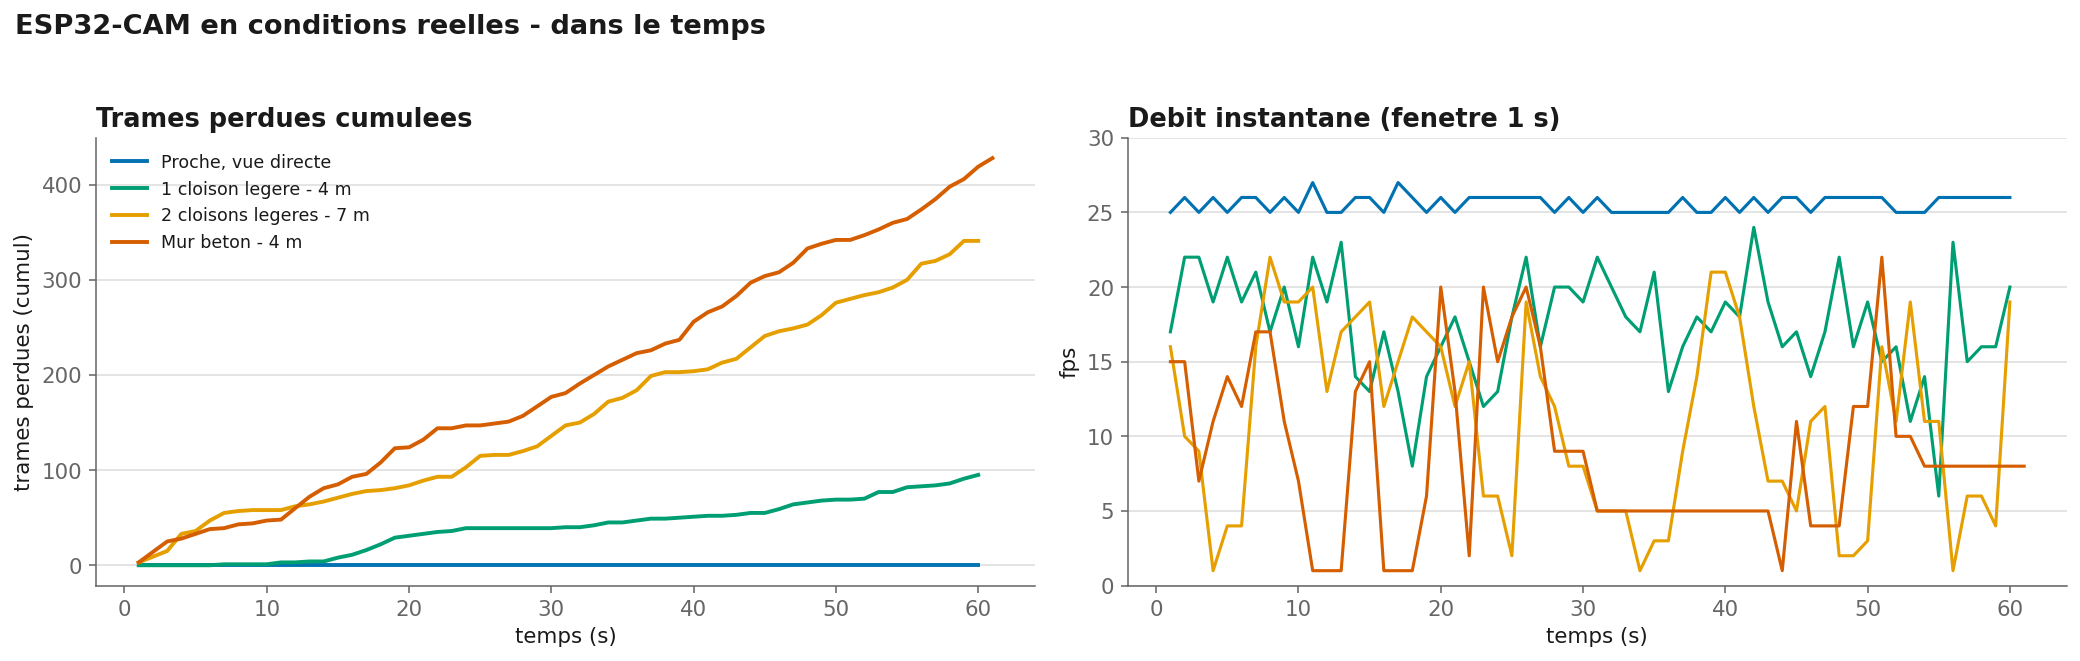
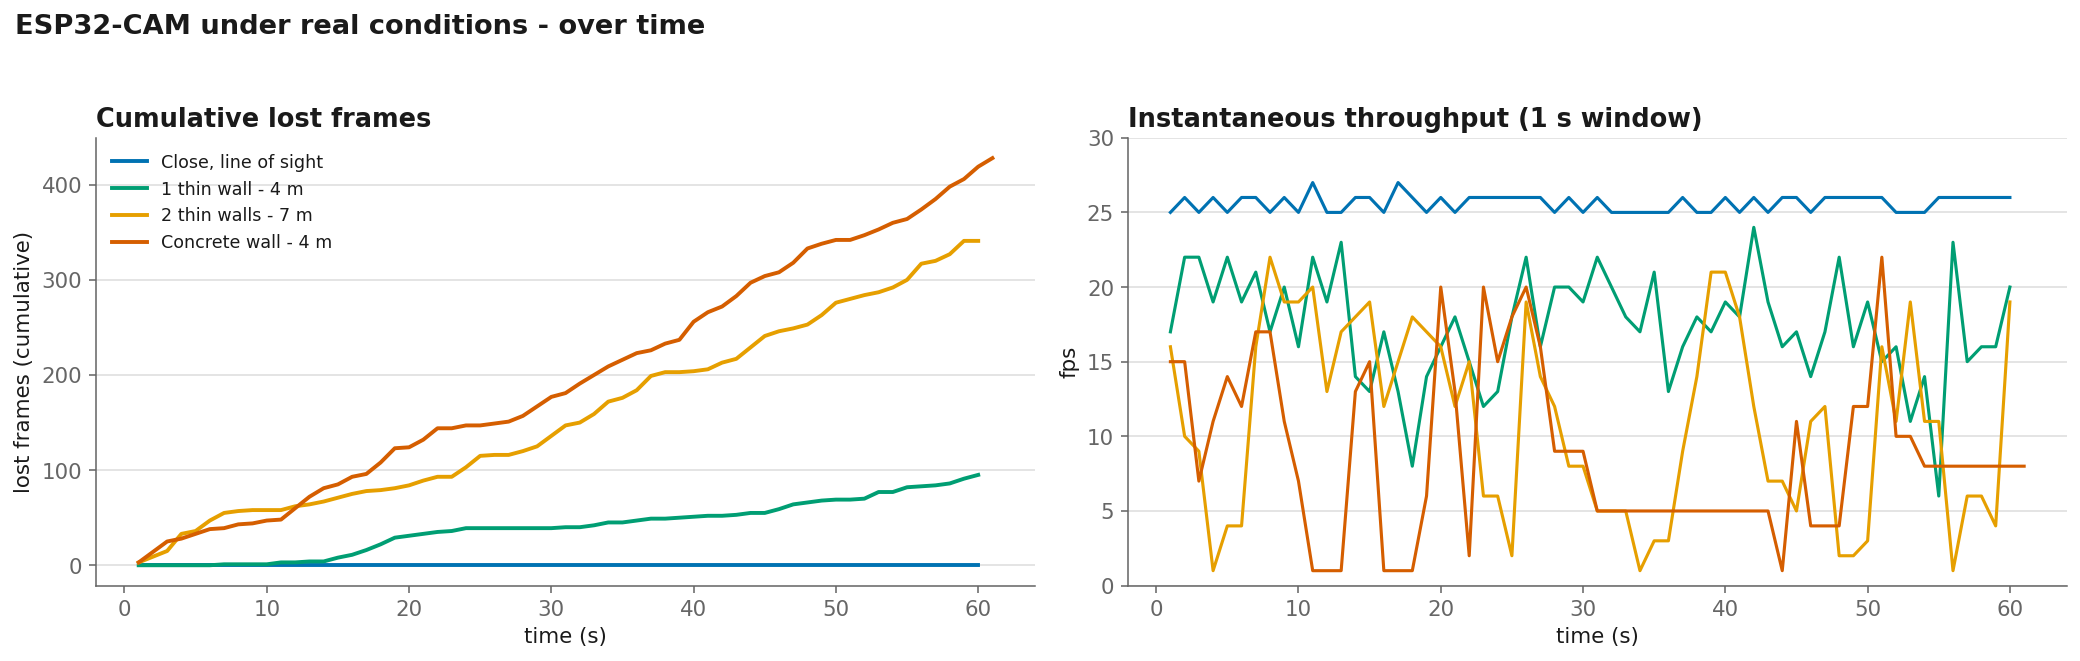
docs: English charts in README/reports (bench dashboards + real-conditions)

diff --git a/bench/comparison_fanout.html b/bench/comparison_fanout.html
@@ -1,5 +1,5 @@
 <!doctype html>
-<html lang="fr">
+<html lang="en">
 <head>
 <meta charset="utf-8">
 <meta name="viewport" content="width=device-width, initial-scale=1">
@@ -55,20 +55,20 @@
 </head>
 <body>
 <div class="wrap">
-  <h1>Banc multi-flux : async multiplexé vs thread-par-socket</h1>
-  <p class="sub">N flux UDP concurrents, 60 fps/flux (trames 8000 o), récepteur épinglé sur un cœur, 10 passes. <b>asio_mux</b> = N sockets sur 1 thread (io_context) ; <b>baseline_mt</b> = 1 thread bloquant par socket. Trait = médiane, bande = min–max.</p>
+  <h1>Multi-stream bench: multiplexed async vs thread-per-socket</h1>
+  <p class="sub">N concurrent UDP streams, 60 fps/stream (8000-byte frames), receiver pinned to one core, 10 passes. <b>asio_mux</b> = N sockets on 1 thread (io_context); <b>baseline_mt</b> = 1 blocking thread per socket. Line = median, band = min-max.</p>
   <div class="legend">
     <span><i class="sw" style="background:var(--base)"></i>baseline_mt (thread / socket)</span>
     <span><i class="sw" style="background:var(--asio)"></i>asio_mux (1 thread, N sockets)</span>
-    <span><i class="sw" style="background:var(--muted);height:0;border-top:2px dashed var(--muted);width:22px"></i>idéal</span>
+    <span><i class="sw" style="background:var(--muted);height:0;border-top:2px dashed var(--muted);width:22px"></i>ideal</span>
   </div>
 
-  <div class="panel"><h2>Perte (%)</h2><p class="cap">La métrique clé : à partir de N=64, l'async mono-thread sature son cœur et lâche des paquets ; le thread-par-socket reste à zéro.</p><div id="p_loss"></div></div>
-  <div class="panel"><h2>Frames livrées (% de l'offert)</h2><p class="cap">100 % = tout reçu. En dessous : soit le générateur n'a pas suivi (les deux), soit le récepteur a perdu (asio en plus).</p><div id="p_dpct"></div></div>
-  <div class="panel"><h2>Coût CPU (ms)</h2><p class="cap">Quasi identiques jusqu'à N=32. Au-delà, l'asio_mux consomme moins… parce qu'il traite moins (il jette 15 % du travail).</p><div id="p_cpu"></div></div>
+  <div class="panel"><h2>Loss (%)</h2><p class="cap">The key metric: from N=64 on, the single-thread async saturates its core and drops packets; thread-per-socket stays at zero.</p><div id="p_loss"></div></div>
+  <div class="panel"><h2>Frames delivered (% of offered)</h2><p class="cap">100% = everything received. Below: either the generator could not keep up (both), or the receiver lost frames (asio only).</p><div id="p_dpct"></div></div>
+  <div class="panel"><h2>CPU cost (ms)</h2><p class="cap">Nearly identical up to N=32. Beyond that, asio_mux uses less... because it does less (it drops 15% of the work).</p><div id="p_cpu"></div></div>
 
   <div class="callout" id="verdict"></div>
-  <details><summary>Voir les valeurs (médianes sur 10 passes)</summary><div id="tbl"></div></details>
+  <details><summary>Show the values (medians over 10 passes)</summary><div id="tbl"></div></details>
 </div>
 <div class="tipbox" id="tip"></div>
 
@@ -96,7 +96,7 @@ function panel(elId, metric, opts){
     const t=mk('text',{class:'tick',x:m.l-8,y:yy+4,'text-anchor':'end'}); t.textContent=opts.fmt(v); svg.appendChild(t);}
   const ax=mk('g',{class:'axis'}); ax.appendChild(mk('line',{x1:m.l,x2:m.l+iw,y1:m.t+ih,y2:m.t+ih})); svg.appendChild(ax);
   for(let i=0;i<N;i++){const t=mk('text',{class:'tick',x:x(i),y:m.t+ih+16,'text-anchor':'middle'}); t.textContent=NN[i]; svg.appendChild(t);}
-  const xl=mk('text',{class:'lbl',x:m.l+iw/2,y:H-4,'text-anchor':'middle'}); xl.textContent='N (nombre de flux)'; svg.appendChild(xl);
+  const xl=mk('text',{class:'lbl',x:m.l+iw/2,y:H-4,'text-anchor':'middle'}); xl.textContent='N (number of streams)'; svg.appendChild(xl);
   if(opts.ideal!==undefined){const yy=y(opts.ideal); svg.appendChild(mk('line',{class:'ideal',x1:m.l,x2:m.l+iw,y1:yy,y2:yy}));}
   for(const k of ['baseline_mt','asio_mux']){
     const arr=DATA[k][metric];
@@ -114,7 +114,7 @@ function panel(elId, metric, opts){
     let bi=0,bd=1e9; for(let i=0;i<N;i++){const d=Math.abs(x(i)-sx);if(d<bd){bd=d;bi=i;}}
     ch.setAttribute('x1',x(bi));ch.setAttribute('x2',x(bi));ch.style.opacity=1;
     const b=DATA.baseline_mt[metric][bi][0], a=DATA.asio_mux[metric][bi][0];
-    tip.innerHTML=`<div style="color:var(--text2)">N = ${NN[bi]} flux</div><div><span style="color:var(--base)">■</span> baseline_mt : ${opts.fmt(b)}</div><div><span style="color:var(--asio)">■</span> asio_mux : ${opts.fmt(a)}</div>`;
+    tip.innerHTML=`<div style="color:var(--text2)">N = ${NN[bi]} streams</div><div><span style="color:var(--base)">■</span> baseline_mt : ${opts.fmt(b)}</div><div><span style="color:var(--asio)">■</span> asio_mux : ${opts.fmt(a)}</div>`;
     tip.style.opacity=1; tip.style.left=(ev.clientX+14)+'px'; tip.style.top=(ev.clientY+12)+'px';
   });
   hit.addEventListener('pointerleave',()=>{ch.style.opacity=0;tip.style.opacity=0;});
@@ -125,10 +125,10 @@ panel('p_dpct','dpct',{fmt:v=>Math.round(v)+'%',ideal:100,idealTop:100});
 panel('p_cpu','cpu',{zero:true,fmt:v=>Math.round(v)});
 
 document.getElementById('verdict').innerHTML=
- "<b>Le résultat, à l'envers de l'intuition :</b> ici c'est le <b>thread-par-socket</b> qui passe l'échelle — perte nulle jusqu'à 128 flux — tandis que l'<b>async mono-thread décroche à N=64</b> (3,6 %) et s'effondre à N=128 (15,5 % de perte). La raison est structurelle : <b>un seul thread = un seul cœur</b>. Le plafond de l'asio_mux, c'est le débit paquets d'<i>un</i> cœur ; passé ~50k paquets/s agrégés, son unique boucle d'événements n'écope plus assez vite et les tampons noyau débordent. Le modèle N-threads, lui, étale le travail (et le noyau réveille le thread précis dont la socket est prête). "+
- "<b>La vraie leçon</b> — celle qui répond enfin à ta question : l'async ne gagne pas «&nbsp;par magie&nbsp;à l'échelle&nbsp;». Il gagne sur <b>beaucoup de connexions peu actives</b> (le cas c10k : des milliers de sockets qui attendent, où lancer un thread par socket ruine la mémoire et l'ordonnanceur). Sur <b>peu de flux très chargés</b>, on est limité par le CPU, et il faut <b>plusieurs cœurs</b> — donc plusieurs threads. Le vrai design de prod n'est ni l'un ni l'autre, c'est le <b>pool</b> : un io_context tourné par M threads (M ≈ nb de cœurs) — le multiplexage d'asio ET le multicœur. Ton asio_mux à 1 thread isolait volontairement la variable «&nbsp;multiplexage&nbsp;»&nbsp;; en prod tu lances io.run() sur un pool.";
+ "<b>The counter-intuitive result:</b> here it is <b>thread-per-socket</b> that scales — zero loss up to 128 streams — while the <b>single-thread async breaks down at N=64</b> (3.6%) and collapses at N=128 (15.5% loss). The reason is structural: <b>one thread = one core</b>. asio_mux&#39;s ceiling is the packet rate of <i>one</i> core; past ~50k aggregate packets/s its single event loop no longer drains fast enough and the kernel buffers overflow. The N-thread model spreads the work (and the kernel wakes the exact thread whose socket is ready). "+
+ "<b>The real lesson</b> — the one that finally answers the question: async does not win by magic at scale. It wins on <b>many mostly-idle connections</b> (the c10k case: thousands of waiting sockets, where one thread per socket wastes memory and the scheduler). On <b>few, heavily-loaded streams</b> you are CPU-bound and need <b>several cores</b> — hence several threads. The real production design is neither one nor the other, it is the <b>pool</b>: one io_context run by M threads (M &#8776; core count) — asio&#39;s multiplexing AND multicore. This asio_mux on 1 thread deliberately isolated the multiplexing variable; in production you run io.run() on a pool.";
 (function(){
-  const cols=[['loss','perte %',v=>v.toFixed(2)],['dpct','livré %',v=>Math.round(v)],['cpu','CPU ms',v=>Math.round(v)]];
+  const cols=[['loss','loss %',v=>v.toFixed(2)],['dpct','delivered %',v=>Math.round(v)],['cpu','CPU ms',v=>Math.round(v)]];
   let h='<table><thead><tr><th>N</th>';
   for(const [,nm] of cols) h+=`<th>mt ${nm}</th><th>mux ${nm}</th>`;
   h+='</tr></thead><tbody>';

diff --git a/bench/comparison_buffer.html b/bench/comparison_buffer.html
@@ -1,6 +1,6 @@
 <!doctype html>
-<html lang="fr"><head><meta charset="utf-8"><meta name="viewport" content="width=device-width, initial-scale=1">
-<title>le tampon, pas l'archi</title>
+<html lang="en"><head><meta charset="utf-8"><meta name="viewport" content="width=device-width, initial-scale=1">
+<title>the buffer, not the arch</title>
 <style>
   :root{--surface-1:#fcfcfb;--page:#f9f9f7;--text:#0b0b0b;--text2:#52514e;--muted:#898781;
     --grid:#e1e0d9;--axis:#c3c2b7;--border:rgba(11,11,11,.10);--base:#2a78d6;--asio:#eb6834;--good:#0ca30c;}
@@ -25,15 +25,15 @@
   .tipbox{position:absolute;pointer-events:none;background:var(--surface-1);border:1px solid var(--border);border-radius:8px;padding:7px 9px;font-size:.78rem;box-shadow:0 4px 14px rgba(0,0,0,.14);opacity:0;transition:opacity .08s;white-space:nowrap;z-index:5}
 </style></head>
 <body><div class="wrap">
-  <h1>C'était le tampon, pas l'architecture</h1>
-  <p class="sub">Même banc multi-flux (2 cœurs, 60 fps/flux, 10 passes). On compare l'asio shardé avec le tampon par défaut vs un <b>SO_RCVBUF de 8 Mo</b>, face au thread-par-socket.</p>
+  <h1>It was the buffer, not the architecture</h1>
+  <p class="sub">Same multi-stream bench (2 cores, 60 fps/stream, 10 passes). Sharded asio with the default buffer vs an <b>8 MB SO_RCVBUF</b>, against thread-per-socket.</p>
   <div class="legend">
-    <span><i class="sw" style="background:var(--muted);height:0;border-top:2px dashed var(--muted);width:22px"></i>asio_shard — tampon défaut</span>
-    <span><i class="sw" style="background:var(--asio)"></i>asio_shard — 8 Mo</span>
-    <span><i class="sw" style="background:var(--base)"></i>baseline_mt — 8 Mo</span>
+    <span><i class="sw" style="background:var(--muted);height:0;border-top:2px dashed var(--muted);width:22px"></i>asio_shard — default buffer</span>
+    <span><i class="sw" style="background:var(--asio)"></i>asio_shard — 8 MB</span>
+    <span><i class="sw" style="background:var(--base)"></i>baseline_mt — 8 MB</span>
   </div>
-  <div class="panel"><h2>Perte (%)</h2><p class="cap">Le même code async : avec le tampon par défaut il monte à 15 % (pointillé) ; avec 8 Mo il tombe à ZÉRO, à égalité avec le thread-par-socket.</p><div id="p_loss"></div></div>
-  <div class="panel"><h2>Coût CPU (% d'un cœur)</h2><p class="cap">À gros tampon, asio_shard et thread-par-socket consomment quasi pareil. L'architecture n'était jamais le problème.</p><div id="p_cpu"></div></div>
+  <div class="panel"><h2>Loss (%)</h2><p class="cap">The same async code: with the default buffer it climbs to 15% (dashed); with 8 MB it drops to ZERO, level with thread-per-socket.</p><div id="p_loss"></div></div>
+  <div class="panel"><h2>CPU cost (% of one core)</h2><p class="cap">With a large buffer, asio_shard and thread-per-socket use almost the same. The architecture was never the problem.</p><div id="p_cpu"></div></div>
   <div class="callout" id="verdict"></div>
 </div>
 <div class="tipbox" id="tip"></div>
@@ -53,7 +53,7 @@ function panel(elId,keys,opts){
     const t=mk('text',{class:'tick',x:m.l-8,y:yy+4,'text-anchor':'end'});t.textContent=opts.fmt(v);svg.appendChild(t);}
   const ax=mk('g',{class:'axis'});ax.appendChild(mk('line',{x1:m.l,x2:m.l+iw,y1:m.t+ih,y2:m.t+ih}));svg.appendChild(ax);
   for(let i=0;i<N;i++){const t=mk('text',{class:'tick',x:x(i),y:m.t+ih+16,'text-anchor':'middle'});t.textContent=NN[i];svg.appendChild(t);}
-  const xl=mk('text',{class:'lbl',x:m.l+iw/2,y:H-4,'text-anchor':'middle'});xl.textContent='N (nombre de flux)';svg.appendChild(xl);
+  const xl=mk('text',{class:'lbl',x:m.l+iw/2,y:H-4,'text-anchor':'middle'});xl.textContent='N (number of streams)';svg.appendChild(xl);
   for(const spec of opts.series){const a=DATA[spec.k];
     let ln='';for(let i=0;i<N;i++){const v=Array.isArray(a[i])?a[i][0]:a[i];ln+=(i?'L':'M')+x(i)+','+y(v)+' ';}
     svg.appendChild(mk('path',{d:ln,fill:'none',stroke:spec.c,'stroke-width':spec.dash?1.6:2.4,'stroke-linejoin':'round',...(spec.dash?{'stroke-dasharray':'4 4'}:{})}));
@@ -72,15 +72,15 @@ function panel(elId,keys,opts){
   el.appendChild(svg);
 }
 panel('p_loss',['shard_small_loss','shard_big_loss','mt_big_loss'],{fmt:v=>v.toFixed(1)+'%',series:[
-  {k:'shard_small_loss',c:'var(--muted)',n:'défaut',dash:true,off:-6},
-  {k:'shard_big_loss',c:'var(--asio)',n:'shard 8Mo',off:14},
-  {k:'mt_big_loss',c:'var(--base)',n:'mt 8Mo',off:4}]});
+  {k:'shard_small_loss',c:'var(--muted)',n:'default',dash:true,off:-6},
+  {k:'shard_big_loss',c:'var(--asio)',n:'shard 8MB',off:14},
+  {k:'mt_big_loss',c:'var(--base)',n:'mt 8MB',off:4}]});
 panel('p_cpu',['shard_big_cpu','mt_big_cpu'],{fmt:v=>Math.round(v)+'%',series:[
-  {k:'shard_big_cpu',c:'var(--asio)',n:'shard 8Mo',off:-6},
-  {k:'mt_big_cpu',c:'var(--base)',n:'mt 8Mo',off:8}]});
+  {k:'shard_big_cpu',c:'var(--asio)',n:'shard 8MB',off:-6},
+  {k:'mt_big_cpu',c:'var(--base)',n:'mt 8MB',off:8}]});
 document.getElementById('verdict').innerHTML=
- "<b>Ta piste était la bonne.</b> Le même récepteur asio shardé, qui perdait 15 % à N=128 avec le tampon par défaut, tombe à <b>0 % de perte</b> dès qu'on lui donne un SO_RCVBUF de 8 Mo — exactement à égalité avec le thread-par-socket, pour un CPU quasi identique. "+
- "La perte n'était donc <b>ni un problème de CPU, ni de cœurs, ni d'architecture async</b> : c'était le <b>tampon de réception trop petit</b> face à des rafales synchronisées. Le chemin async a une latence de service un peu plus longue (epoll→dispatch→coroutine) ; il lui faut juste un tampon assez grand pour encaisser la rafale, et il redevient équivalent. "+
- "<b>Conclusion définitive du banc :</b> correctement dimensionné (SO_RCVBUF), asio <b>tient aussi bien</b> que les threads bloquants sur ce flux — sans l'avantage décisif qu'on lui prête, mais sans le handicap non plus. Pour CE projet (peu de flux), les threads restent le choix le plus simple ; asio devient pertinent au c10k (des milliers de connexions). Cinq récepteurs, quatre manches, et une cause racine trouvée : le tampon.";
+ "<b>Your hunch was right.</b> The same sharded asio receiver that lost 15% at N=128 with the default buffer drops to <b>0% loss</b> as soon as it gets an 8 MB SO_RCVBUF — exactly level with thread-per-socket, at nearly identical CPU. "+
+ "The loss was therefore <b>neither a CPU, core, nor async-architecture problem</b>: it was a <b>receive buffer too small</b> for synchronized bursts. The async path has a slightly longer service latency (epoll&#8594;dispatch&#8594;coroutine); it just needs a buffer large enough to absorb the burst, and it becomes equivalent again. "+
+ "<b>Final verdict of the bench:</b> correctly sized (SO_RCVBUF), asio <b>holds up as well</b> as blocking threads on this workload — without the decisive edge it is often credited with, but without the handicap either. For THIS project (few streams) blocking threads stay the simplest choice; asio becomes relevant at c10k (thousands of connections). Five receivers, four rounds, and one root cause found: the buffer.";
 </script>
 </body></html>

diff --git a/bench/esp32_data/real_env/analyze.py b/bench/esp32_data/real_env/analyze.py
@@ -1,28 +1,28 @@
 #!/usr/bin/env python3
-# Analyse des relevés "conditions réelles" ESP32-CAM.
+# Analysis of the ESP32-CAM "real conditions" measurements.
 import csv, statistics as st
 import matplotlib
 matplotlib.use("Agg")
 import matplotlib.pyplot as plt
 from pathlib import Path
 
-# Chemins relatifs au script (il vit dans bench/esp32_data/real_env/).
+# Paths relative to this script (it lives in bench/esp32_data/real_env/).
 SRC = Path(__file__).resolve().parent
 OUT = SRC / "charts"; OUT.mkdir(parents=True, exist_ok=True)
 
-# Okabe-Ito (palette daltonien-safe, ordre fixe)
+# Okabe-Ito (colorblind-safe palette, fixed order)
 BLUE, ORANGE, GREEN, VERM = "#0072B2", "#E69F00", "#009E73", "#D55E00"
 INK, MUTED, GRID = "#1a1a1a", "#666666", "#dddddd"
 
-# NB : les noms de fichiers 02/03 avaient ete intervertis a la prise de mesure.
-# On retablit ici le libelle PHYSIQUE correct (les donnees, elles, sont bonnes) :
-#   03_2_thinwall_7_meters.csv  == en realite  1 cloison legere, 4 m   (8,7 %)
-#   02_thinwall_4_meters.csv    == en realite  2 cloisons legeres, 7 m (38,5 %)
+# NB: the 02/03 filenames were swapped at capture time.
+# We restore the correct PHYSICAL label here (the data itself is fine):
+#   03_2_thinwall_7_meters.csv  == actually  1 thin wall, 4 m   (8.7%)
+#   02_thinwall_4_meters.csv    == actually  2 thin walls, 7 m (38.5%)
 FILES = [
-    ("01_proche.csv",                  "Proche, vue directe",      BLUE),
-    ("03_2_thinwall_7_meters.csv",     "1 cloison legere - 4 m",   GREEN),
-    ("02_thinwall_4_meters.csv",       "2 cloisons legeres - 7 m", ORANGE),
-    ("04_1_concrete_wall_4_meters.csv","Mur beton - 4 m",          VERM),
+    ("01_proche.csv",                  "Close, line of sight",      BLUE),
+    ("03_2_thinwall_7_meters.csv",     "1 thin wall - 4 m",   GREEN),
+    ("02_thinwall_4_meters.csv",       "2 thin walls - 7 m", ORANGE),
+    ("04_1_concrete_wall_4_meters.csv","Concrete wall - 4 m",          VERM),
 ]
 
 def load(fn):
@@ -57,7 +57,7 @@ def style(ax):
     ax.spines[["top", "right"]].set_visible(False)
     ax.grid(axis="y", color=GRID, lw=0.8); ax.set_axisbelow(True)
 
-# ---- Figure 1 : synthèse (barres, une mesure par panneau) -----------------
+# ---- Figure 1: summary (bars, one metric per panel) ----------------------
 order = sorted(S, key=lambda d: d["loss_pct"], reverse=True)
 labels = [d["label"] for d in order]; cols = [d["col"] for d in order]
 fig, ax = plt.subplots(1, 3, figsize=(15, 4.6))
@@ -65,49 +65,49 @@ for a in ax: style(a)
 
 vals = [d["loss_pct"] for d in order]
 b = ax[0].bar(range(len(order)), vals, color=cols, width=0.62)
-ax[0].set_title("Pertes de trames (cumul sur 60 s)", fontweight="bold", loc="left")
-ax[0].set_ylabel("% perdu"); ax[0].set_ylim(0, max(vals) * 1.18 + 1)
+ax[0].set_title("Frame loss (cumulative over 60 s)", fontweight="bold", loc="left")
+ax[0].set_ylabel("% lost"); ax[0].set_ylim(0, max(vals) * 1.18 + 1)
 for i, v in enumerate(vals): ax[0].text(i, v + max(vals)*0.02, f"{v:.1f}%", ha="center", fontweight="bold")
 
 vals = [d["mean_fps"] for d in order]
 ax[1].bar(range(len(order)), vals, color=cols, width=0.62)
-ax[1].set_title("Debit moyen (fps rendus)", fontweight="bold", loc="left")
+ax[1].set_title("Mean throughput (fps rendered)", fontweight="bold", loc="left")
 ax[1].set_ylabel("fps"); ax[1].set_ylim(0, 30)
-ax[1].axhline(25, color=MUTED, ls="--", lw=1); ax[1].text(-0.35, 25.6, "cible 25", color=MUTED, ha="left", fontsize=9)
+ax[1].axhline(25, color=MUTED, ls="--", lw=1); ax[1].text(-0.35, 25.6, "target 25", color=MUTED, ha="left", fontsize=9)
 for i, v in enumerate(vals): ax[1].text(i, v + 0.4, f"{v:.1f}", ha="center", fontweight="bold")
 
 vals = [d["med_jit"] for d in order]
 ax[2].bar(range(len(order)), vals, color=cols, width=0.62)
-ax[2].set_title("Gigue (mediane, ms)", fontweight="bold", loc="left")
+ax[2].set_title("Jitter (median, ms)", fontweight="bold", loc="left")
 ax[2].set_ylabel("ms"); ax[2].set_ylim(0, max(vals) * 1.2 + 2)
 for i, v in enumerate(vals): ax[2].text(i, v + max(vals)*0.02, f"{v:.0f}", ha="center", fontweight="bold")
 
-SHORT = {"Proche, vue directe": "Proche\n(vue directe)",
-         "1 cloison legere - 4 m": "1 cloison\n4 m",
-         "2 cloisons legeres - 7 m": "2 cloisons\n7 m",
-         "Mur beton - 4 m": "Mur beton\n4 m"}
+SHORT = {"Close, line of sight": "Close\n(line of sight)",
+         "1 thin wall - 4 m": "1 wall\n4 m",
+         "2 thin walls - 7 m": "2 walls\n7 m",
+         "Concrete wall - 4 m": "Concrete\n4 m"}
 for a in ax:
     a.set_xticks(range(len(order)))
     a.set_xticklabels([SHORT[l] for l in labels], fontsize=9.5)
-fig.suptitle("ESP32-CAM en conditions reelles - synthese par scenario",
+fig.suptitle("ESP32-CAM under real conditions - per-scenario summary",
              fontweight="bold", x=0.012, ha="left", fontsize=14)
 fig.tight_layout(rect=[0, 0, 1, 0.95])
 fig.savefig(OUT / "reel_synthese.png", dpi=140, bbox_inches="tight")
-print("écrit", OUT / "reel_synthese.png")
+print("wrote", OUT / "reel_synthese.png")
 
-# ---- Figure 2 : séries temporelles (pertes cumulées + fps) ----------------
+# ---- Figure 2: time series (cumulative loss + fps) -----------------------
 fig, ax = plt.subplots(1, 2, figsize=(15, 4.8))
 for a in ax: style(a)
 for d in S:
     ax[0].plot(d["t"], d["lost"], color=d["col"], lw=2, label=d["label"])
     ax[1].plot(d["t"], d["fps"], color=d["col"], lw=1.6, label=d["label"])
-ax[0].set_title("Trames perdues cumulees", fontweight="bold", loc="left")
-ax[0].set_xlabel("temps (s)"); ax[0].set_ylabel("trames perdues (cumul)")
-ax[1].set_title("Debit instantane (fenetre 1 s)", fontweight="bold", loc="left")
-ax[1].set_xlabel("temps (s)"); ax[1].set_ylabel("fps"); ax[1].set_ylim(0, 30)
+ax[0].set_title("Cumulative lost frames", fontweight="bold", loc="left")
+ax[0].set_xlabel("time (s)"); ax[0].set_ylabel("lost frames (cumulative)")
+ax[1].set_title("Instantaneous throughput (1 s window)", fontweight="bold", loc="left")
+ax[1].set_xlabel("time (s)"); ax[1].set_ylabel("fps"); ax[1].set_ylim(0, 30)
 ax[0].legend(frameon=False, fontsize=9, loc="upper left")
-fig.suptitle("ESP32-CAM en conditions reelles - dans le temps",
+fig.suptitle("ESP32-CAM under real conditions - over time",
              fontweight="bold", x=0.012, ha="left", fontsize=14)
 fig.tight_layout(rect=[0, 0, 1, 0.95])
 fig.savefig(OUT / "reel_temporel.png", dpi=140, bbox_inches="tight")
-print("écrit", OUT / "reel_temporel.png")
+print("wrote", OUT / "reel_temporel.png")

diff --git a/README.md b/README.md
@@ -59,8 +59,8 @@ Method, 4 scenarios, and raw data → **[`real-conditions.en.md`](docs/real-cond
 ## Architecture
 
 ```
-ESP32-CAM ──JPEG/UDP──► PC : réassemblage → décodage → upscaling → affichage
-                                    └────────► télémétrie (fps, pertes, gigue)
+ESP32-CAM ──JPEG/UDP──► PC : re-assembly → decode → upscaling → display
+                                    └────────► telemtry (fps, loss, jitter)
 ```
 
 Three viewers consume this stream: `display/viewer` (direct display),
@@ -87,14 +87,14 @@ Three viewers consume this stream: `display/viewer` (direct display),
 ```bash
 cmake -S . -B build-rel -DCMAKE_BUILD_TYPE=Release
 cmake --build build-rel -j
-ctest --test-dir build-rel --output-on-failure     # logique pure (Catch2)
+ctest --test-dir build-rel --output-on-failure     # logic pure (Catch2)
 
 # en vrai (OpenCV requis) :
-./build-rel/receiver/receiver 9000                 # télémétrie headless
-./build-rel/display/viewer 9000                    # affichage
-./build-rel/upscaler/viewer_up 9000 2 30           # affichage + upscaling x2, budget 30 ms
+./build-rel/receiver/receiver 9000                 # telemetry headless
+./build-rel/display/viewer 9000                    # display
+./build-rel/upscaler/viewer_up 9000 2 30           # display + upscaling x2, budget 30 ms
 ./build-rel/viewer_qt/viewer_qt 9000               # dashboard Qt (vidéo + stats + graphe)
-./build-rel/receiver/receiver 9000 --csv run.csv   # mesure : journalise la télémétrie
+./build-rel/receiver/receiver 9000 --csv run.csv   # mesure : logs telemetry 
 ```
 
 The bench (generator + receivers, POSIX sockets, no OpenCV): see
